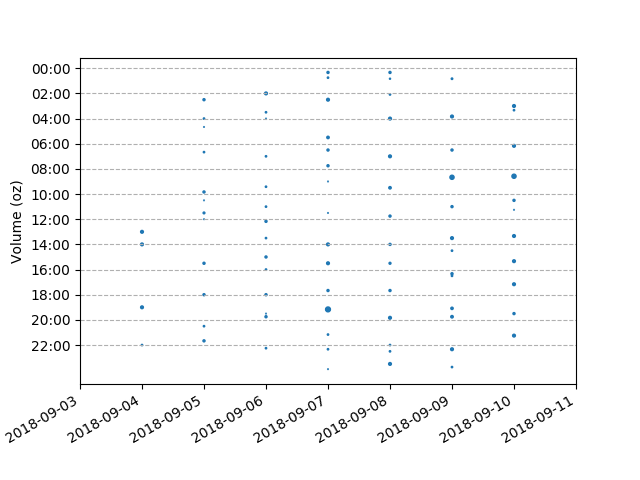
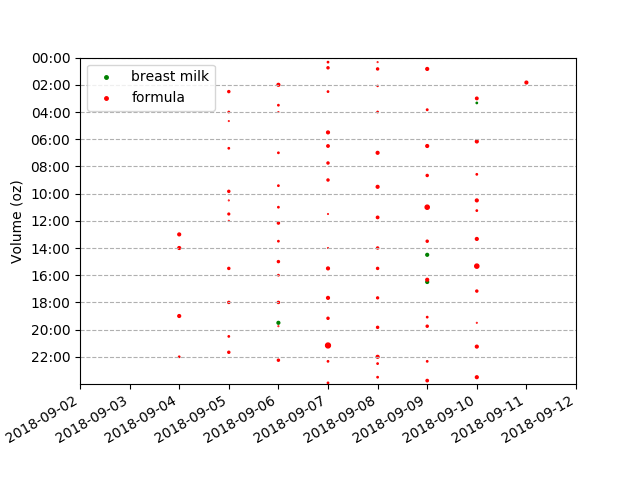
distinguish bm

diff --git a/analyze.py b/analyze.py
@@ -7,26 +7,32 @@ import matplotlib.pyplot as plt
 #import matplotlib.dates as md
 
 
+# load data
 data_type = {'BM': bool}
 df = pd.read_csv('data.csv', dtype=data_type,
         index_col=0, parse_dates=[0],
         skipinitialspace=True, keep_default_na=False)
 df.rename(columns={'Volume (oz)': 'Vol'}, inplace=True)
 
-dates = df.index.date
-times = df.index.time
-vol = df.Vol.values ** 2
-day = datetime.timedelta(days=1)
+# plot
+bm = df.loc[df.BM]
+formula = df.loc[df.BM == False]
+for d, color, text in zip([bm, formula], ['g', 'r'], ['breast milk', 'formula']):
+    dates = d.index.date
+    times = d.index.time
+    vol = df.Vol.values ** 2
+    day = datetime.timedelta(days=1)
+    plt.scatter(dates, times, s=vol, c=color,label=text)
 
-plt.scatter(dates, times, s=vol)
 #plt.gca().set_ylabel('Volumes (oz)')
 plt.ylabel('Volume (oz)')
 plt.gcf().autofmt_xdate()
 ax = plt.gca()
-ax.set_xlim([min(dates)-day, max(dates)+day])
-hours = [datetime.datetime.combine(datetime.date.today(), datetime.time(i)) for i in range(24)]
+ax.set_xlim([min(dates)-day*2, max(dates)+day])
 hours = [datetime.time(i) for i in range(0,24,2)]
+ax.set_ylim([hours[0], datetime.time(23, 59, 59)])
 plt.yticks(hours)
 ax.grid(True, axis='y', linestyle='--')
 ax.invert_yaxis()
+plt.legend(loc='upper left')
 plt.savefig('image.png')
